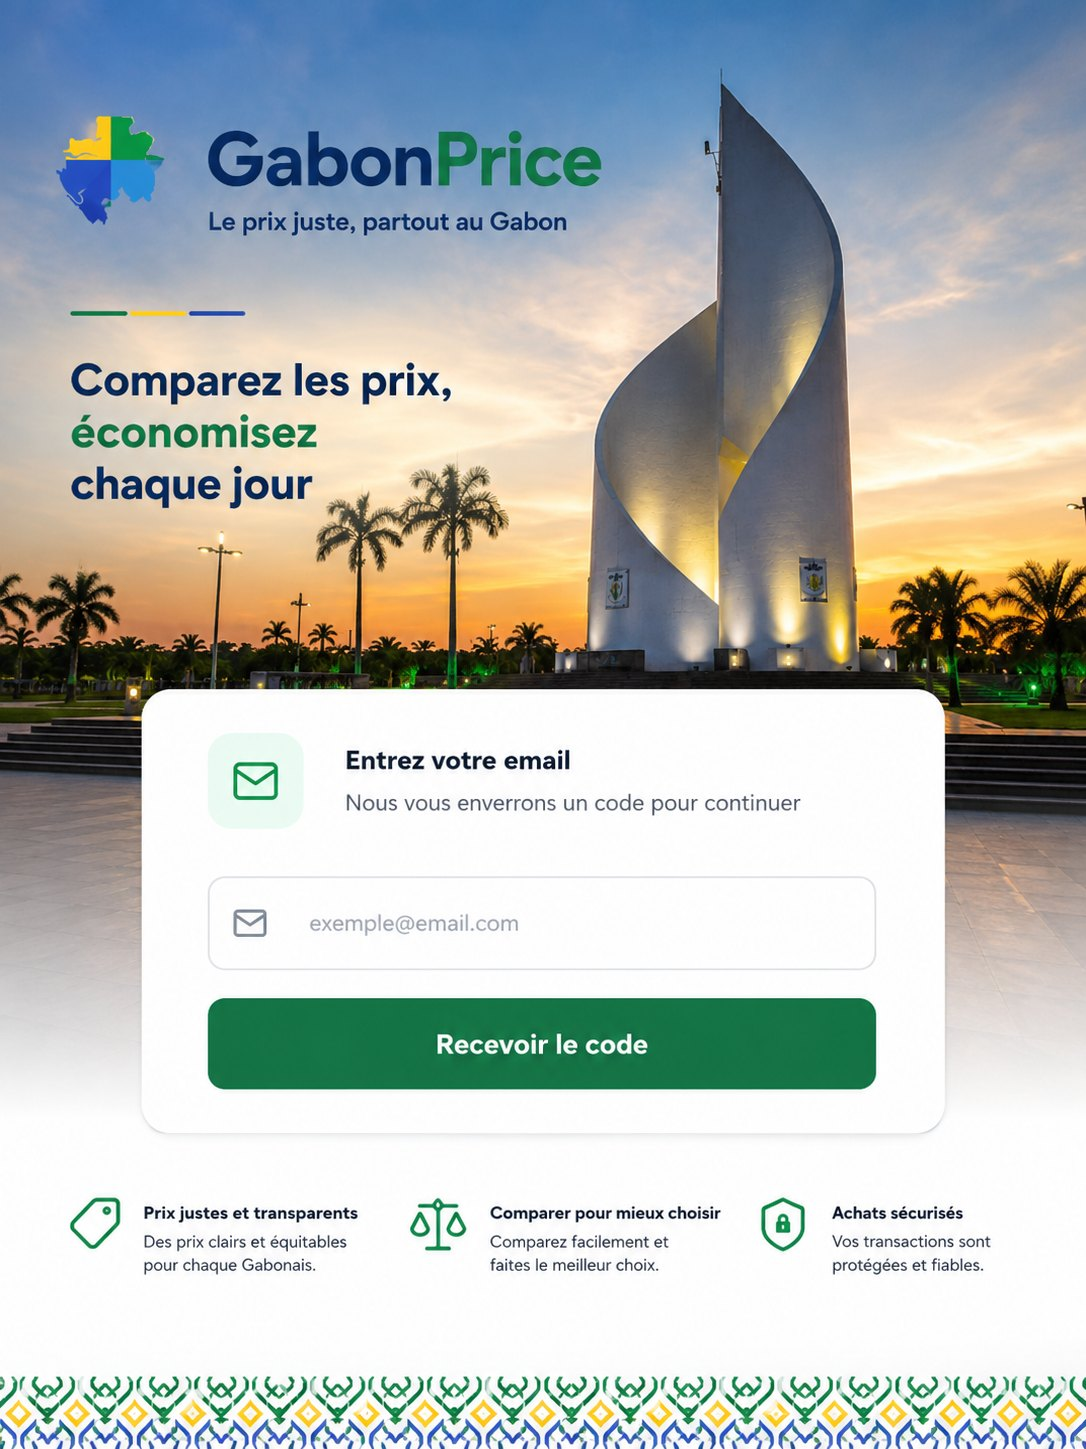
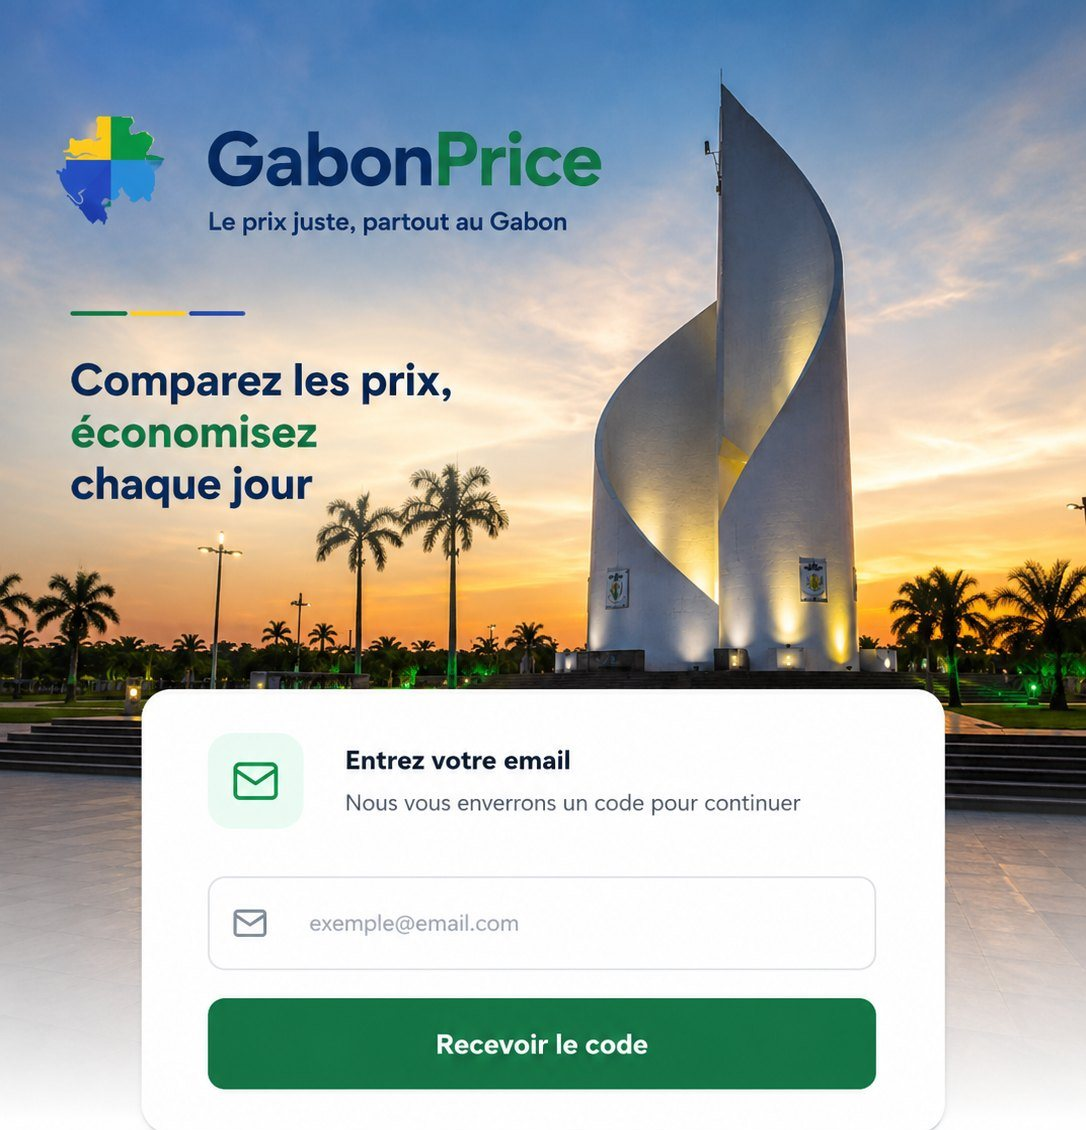
Repères en vrai HTML + suppression du vide en bas sur la connexion
Deux problèmes liés à la maquette baked-in-image : le cadre à ratio
fixe (1086/1449) laissait un grand vide blanc sous la carte sur les
écrans très allongés (min-h-svh forçait le remplissage de l'écran) ;
et les 3 repères (Prix justes, Comparer, Économisez), dessinés en
pixels dans la photo, devenaient minuscules et illisibles une fois
affichés à taille réelle sur mobile.

Fix : image recadrée juste sous la carte (comme les fix précédents),
les 3 repères reconstruits en HTML/SVG réel avec une taille de police
contrôlée et lisible (13px/11px), bordure décorative extraite en
bande séparée (login-pattern.jpg, répétée en background-repeat).
Plus de min-h-svh forcé : la page s'arrête naturellement après son
contenu au lieu de laisser un vide.

diff --git a/frontend/src/pages/LoginPage.tsx b/frontend/src/pages/LoginPage.tsx
@@ -14,12 +14,35 @@ const EnvelopeIcon = ({ className }: { className?: string }) => (
   </svg>
 )
 
+const TagIcon = ({ className }: { className?: string }) => (
+  <svg viewBox="0 0 24 24" fill="none" stroke="currentColor" strokeWidth="2" strokeLinecap="round" strokeLinejoin="round" className={className}>
+    <path d="M12.586 2.586A2 2 0 0 0 11.172 2H4a2 2 0 0 0-2 2v7.172a2 2 0 0 0 .586 1.414l8.704 8.704a2.426 2.426 0 0 0 3.42 0l6.58-6.58a2.426 2.426 0 0 0 0-3.42z" />
+    <circle cx="7.5" cy="7.5" r="0.5" fill="currentColor" />
+  </svg>
+)
+
+const ScaleIcon = ({ className }: { className?: string }) => (
+  <svg viewBox="0 0 24 24" fill="none" stroke="currentColor" strokeWidth="2" strokeLinecap="round" strokeLinejoin="round" className={className}>
+    <path d="m16 16 3-8 3 8c-.87.65-1.92 1-3 1s-2.13-.35-3-1Z" />
+    <path d="m2 16 3-8 3 8c-.87.65-1.92 1-3 1s-2.13-.35-3-1Z" />
+    <path d="M7 21h10" />
+    <path d="M12 3v18" />
+    <path d="M3 7h2c2 0 5-1 7-2 2 1 5 2 7 2h2" />
+  </svg>
+)
+
 const DollarIcon = ({ className }: { className?: string }) => (
   <svg viewBox="0 0 24 24" fill="none" stroke="currentColor" strokeWidth="2.2" strokeLinecap="round" strokeLinejoin="round" className={className}>
     <line x1="12" y1="1" x2="12" y2="23" />
     <path d="M17 5H9.5a3.5 3.5 0 0 0 0 7h5a3.5 3.5 0 0 1 0 7H6" />
   </svg>
 )
+
+const FEATURES = [
+  { icon: TagIcon, title: 'Prix justes et transparents', subtitle: 'Des prix clairs et équitables pour chaque Gabonais.' },
+  { icon: ScaleIcon, title: 'Comparer pour mieux choisir', subtitle: 'Comparez facilement et faites le meilleur choix.' },
+  { icon: DollarIcon, title: 'Économisez au quotidien', subtitle: "Trouvez le meilleur prix avant d'acheter." },
+]
 
 export function LoginPage() {
   const [email, setEmail] = useState('')
@@ -52,23 +75,14 @@ export function LoginPage() {
   }
 
   return (
-    <div className="relative min-h-svh bg-white">
-      <div className="relative w-full" style={{ aspectRatio: '1086 / 1449' }}>
+    <div className="bg-white">
+      <div className="relative w-full" style={{ aspectRatio: '1086 / 1130' }}>
         <img src="/hero/login-bg.jpg" alt="" className="absolute inset-0 h-full w-full object-cover" />
-
-        {/* Recouvre le 3e repère "Achats sécurisés" bake dans la photo par "Économisez au quotidien" */}
-        <div className="absolute z-[8] flex flex-col gap-0.5 bg-white" style={{ top: '82%', left: '67.6%', width: '31%', height: '10.5%' }}>
-          <div className="flex items-start gap-1">
-            <DollarIcon className="mt-0.5 h-3.5 w-3.5 flex-shrink-0 text-brand-green-vivid" />
-            <div className="text-[11px] font-extrabold leading-tight text-ink">Économisez au quotidien</div>
-          </div>
-          <div className="text-[10px] leading-tight text-muted">Trouvez le meilleur prix avant d'acheter.</div>
-        </div>
 
         <form
           onSubmit={handleSubmit}
           className="absolute z-10 flex flex-col justify-center rounded-[20px] bg-white px-4 py-4 shadow-[0_10px_40px_rgba(0,0,0,0.15)]"
-          style={{ top: '47.2%', left: '13.1%', width: '73.8%', height: '30.8%' }}
+          style={{ top: '60.52%', left: '13.1%', width: '73.8%', height: '39.5%' }}
         >
           <div className="mb-3 flex items-center gap-2.5">
             <div className="flex h-9 w-9 flex-shrink-0 items-center justify-center rounded-[22%] bg-brand-green-light">
@@ -100,6 +114,18 @@ export function LoginPage() {
           </Button>
         </form>
       </div>
+
+      <div className="grid grid-cols-3 gap-3 px-4 py-5">
+        {FEATURES.map(({ icon: Icon, title, subtitle }) => (
+          <div key={title}>
+            <Icon className="mb-1.5 h-5 w-5 text-brand-green-vivid" />
+            <div className="text-[13px] font-bold leading-tight text-ink">{title}</div>
+            <div className="mt-0.5 text-[11px] leading-snug text-muted">{subtitle}</div>
+          </div>
+        ))}
+      </div>
+
+      <div className="h-8 w-full" style={{ backgroundImage: 'url(/hero/login-pattern.jpg)', backgroundRepeat: 'repeat-x', backgroundSize: 'auto 100%' }} />
     </div>
   )
 }